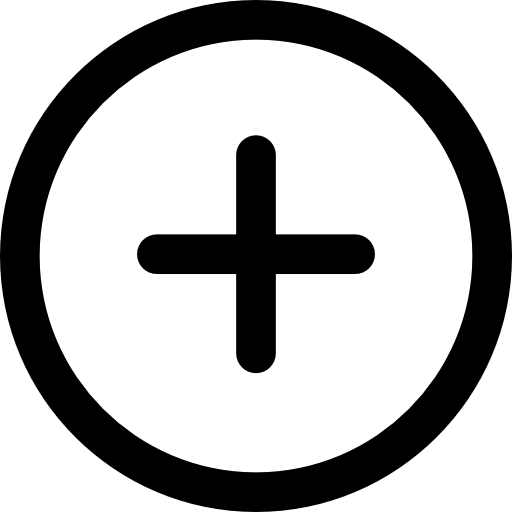
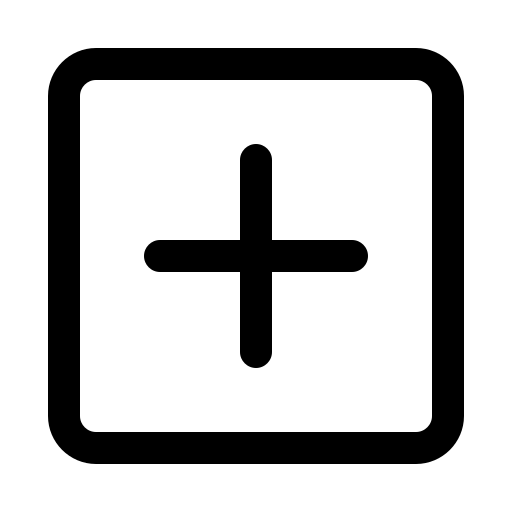
Better toolbar sytle

diff --git a/main.py b/main.py
@@ -36,7 +36,8 @@ def main():
     # Set application style sheet from resources
     style_from_resources = QFile(":/styles/style.qss")
     if style_from_resources.open(QFile.ReadOnly | QFile.Text):
-        app.setStyleSheet(style_from_resources.readAll().data().decode('utf-8'))
+        styleStr = style_from_resources.readAll().data().decode('utf-8')
+        app.setStyleSheet(styleStr)
         style_from_resources.close()
     else:
         # Fallback to file-based stylesheet

diff --git a/src/widgets/containerListWidget.py b/src/widgets/containerListWidget.py
@@ -54,7 +54,7 @@ class ContainerListWidget(QWidget):
         button_layout = QHBoxLayout()
         
         # Add Container button
-        self.add_container_btn = QPushButton("Add Container")
+        self.add_container_btn = QPushButton("Add New Container")
         self.add_container_btn.clicked.connect(self.add_container)
         button_layout.addWidget(self.add_container_btn)
         

diff --git a/src/mainWindow.py b/src/mainWindow.py
@@ -24,6 +24,7 @@ class MainWindow(QMainWindow):
         self.toolbar.setOrientation(Qt.Vertical)
         self.toolbar.setIconSize(QSize(32, 32))
         self.toolbar.setToolButtonStyle(Qt.ToolButtonTextUnderIcon)
+        
         main_layout.addWidget(self.toolbar)
 
         # Create stacked layout for different pages
